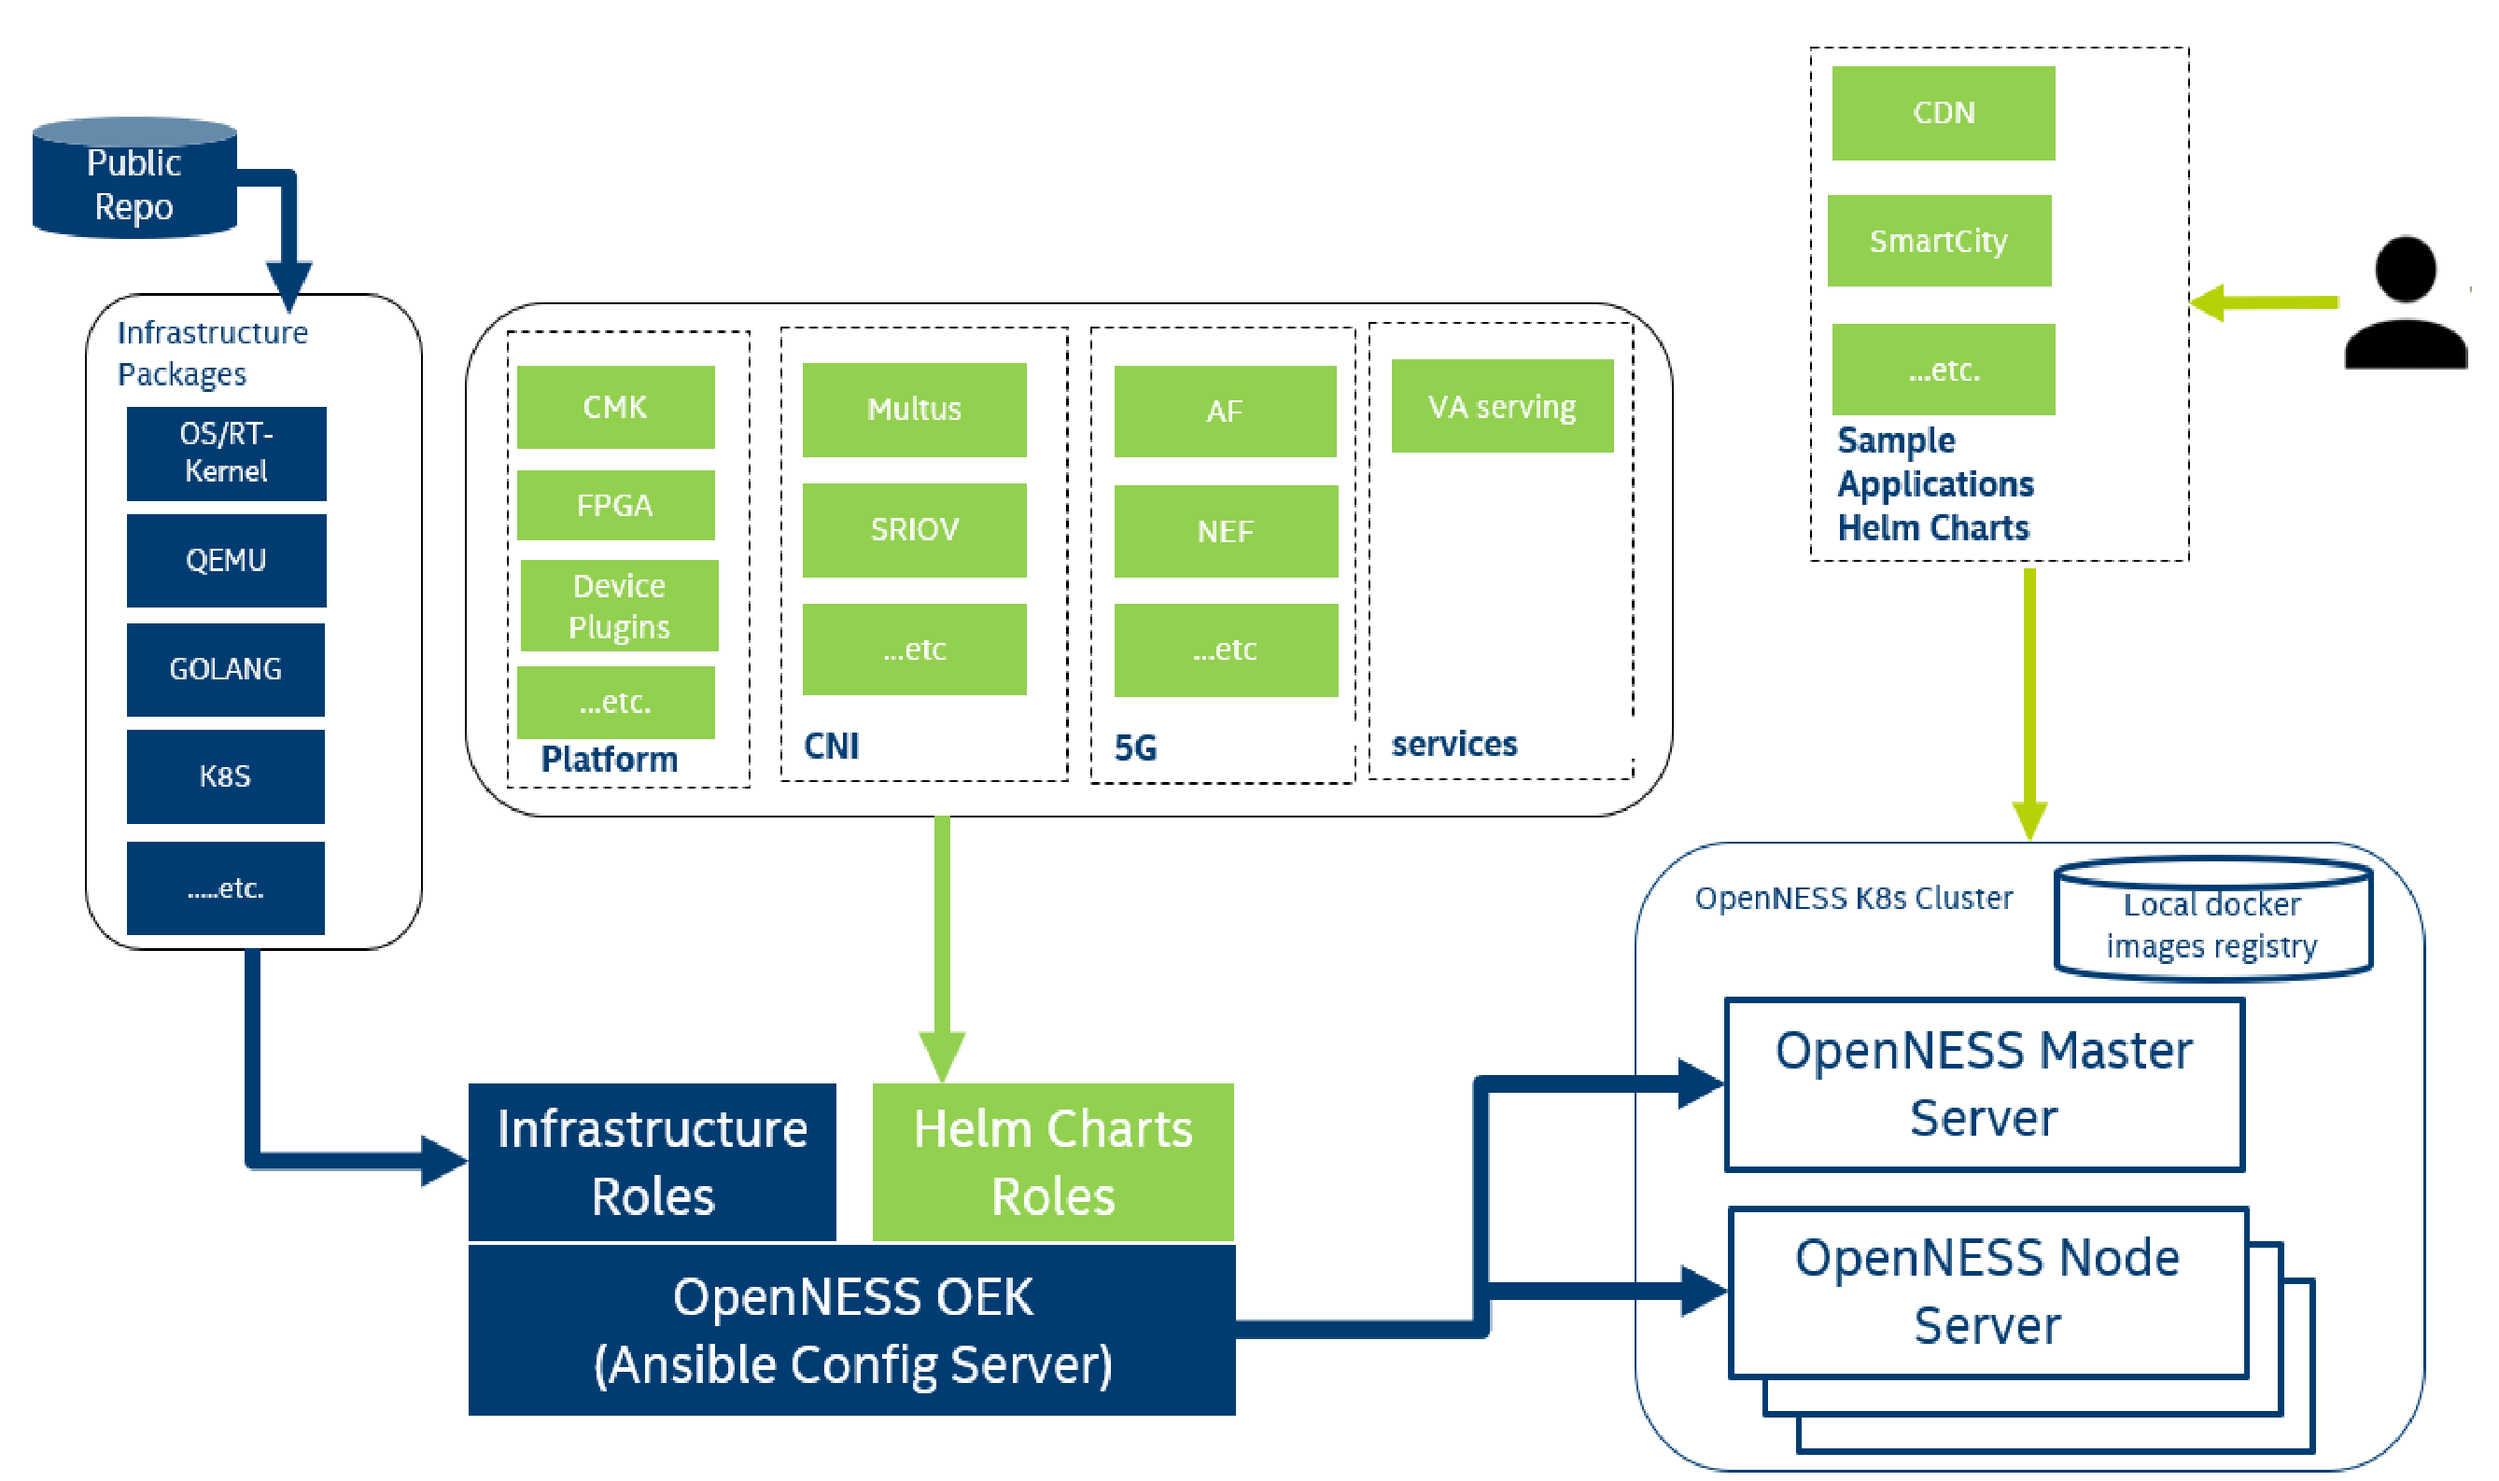
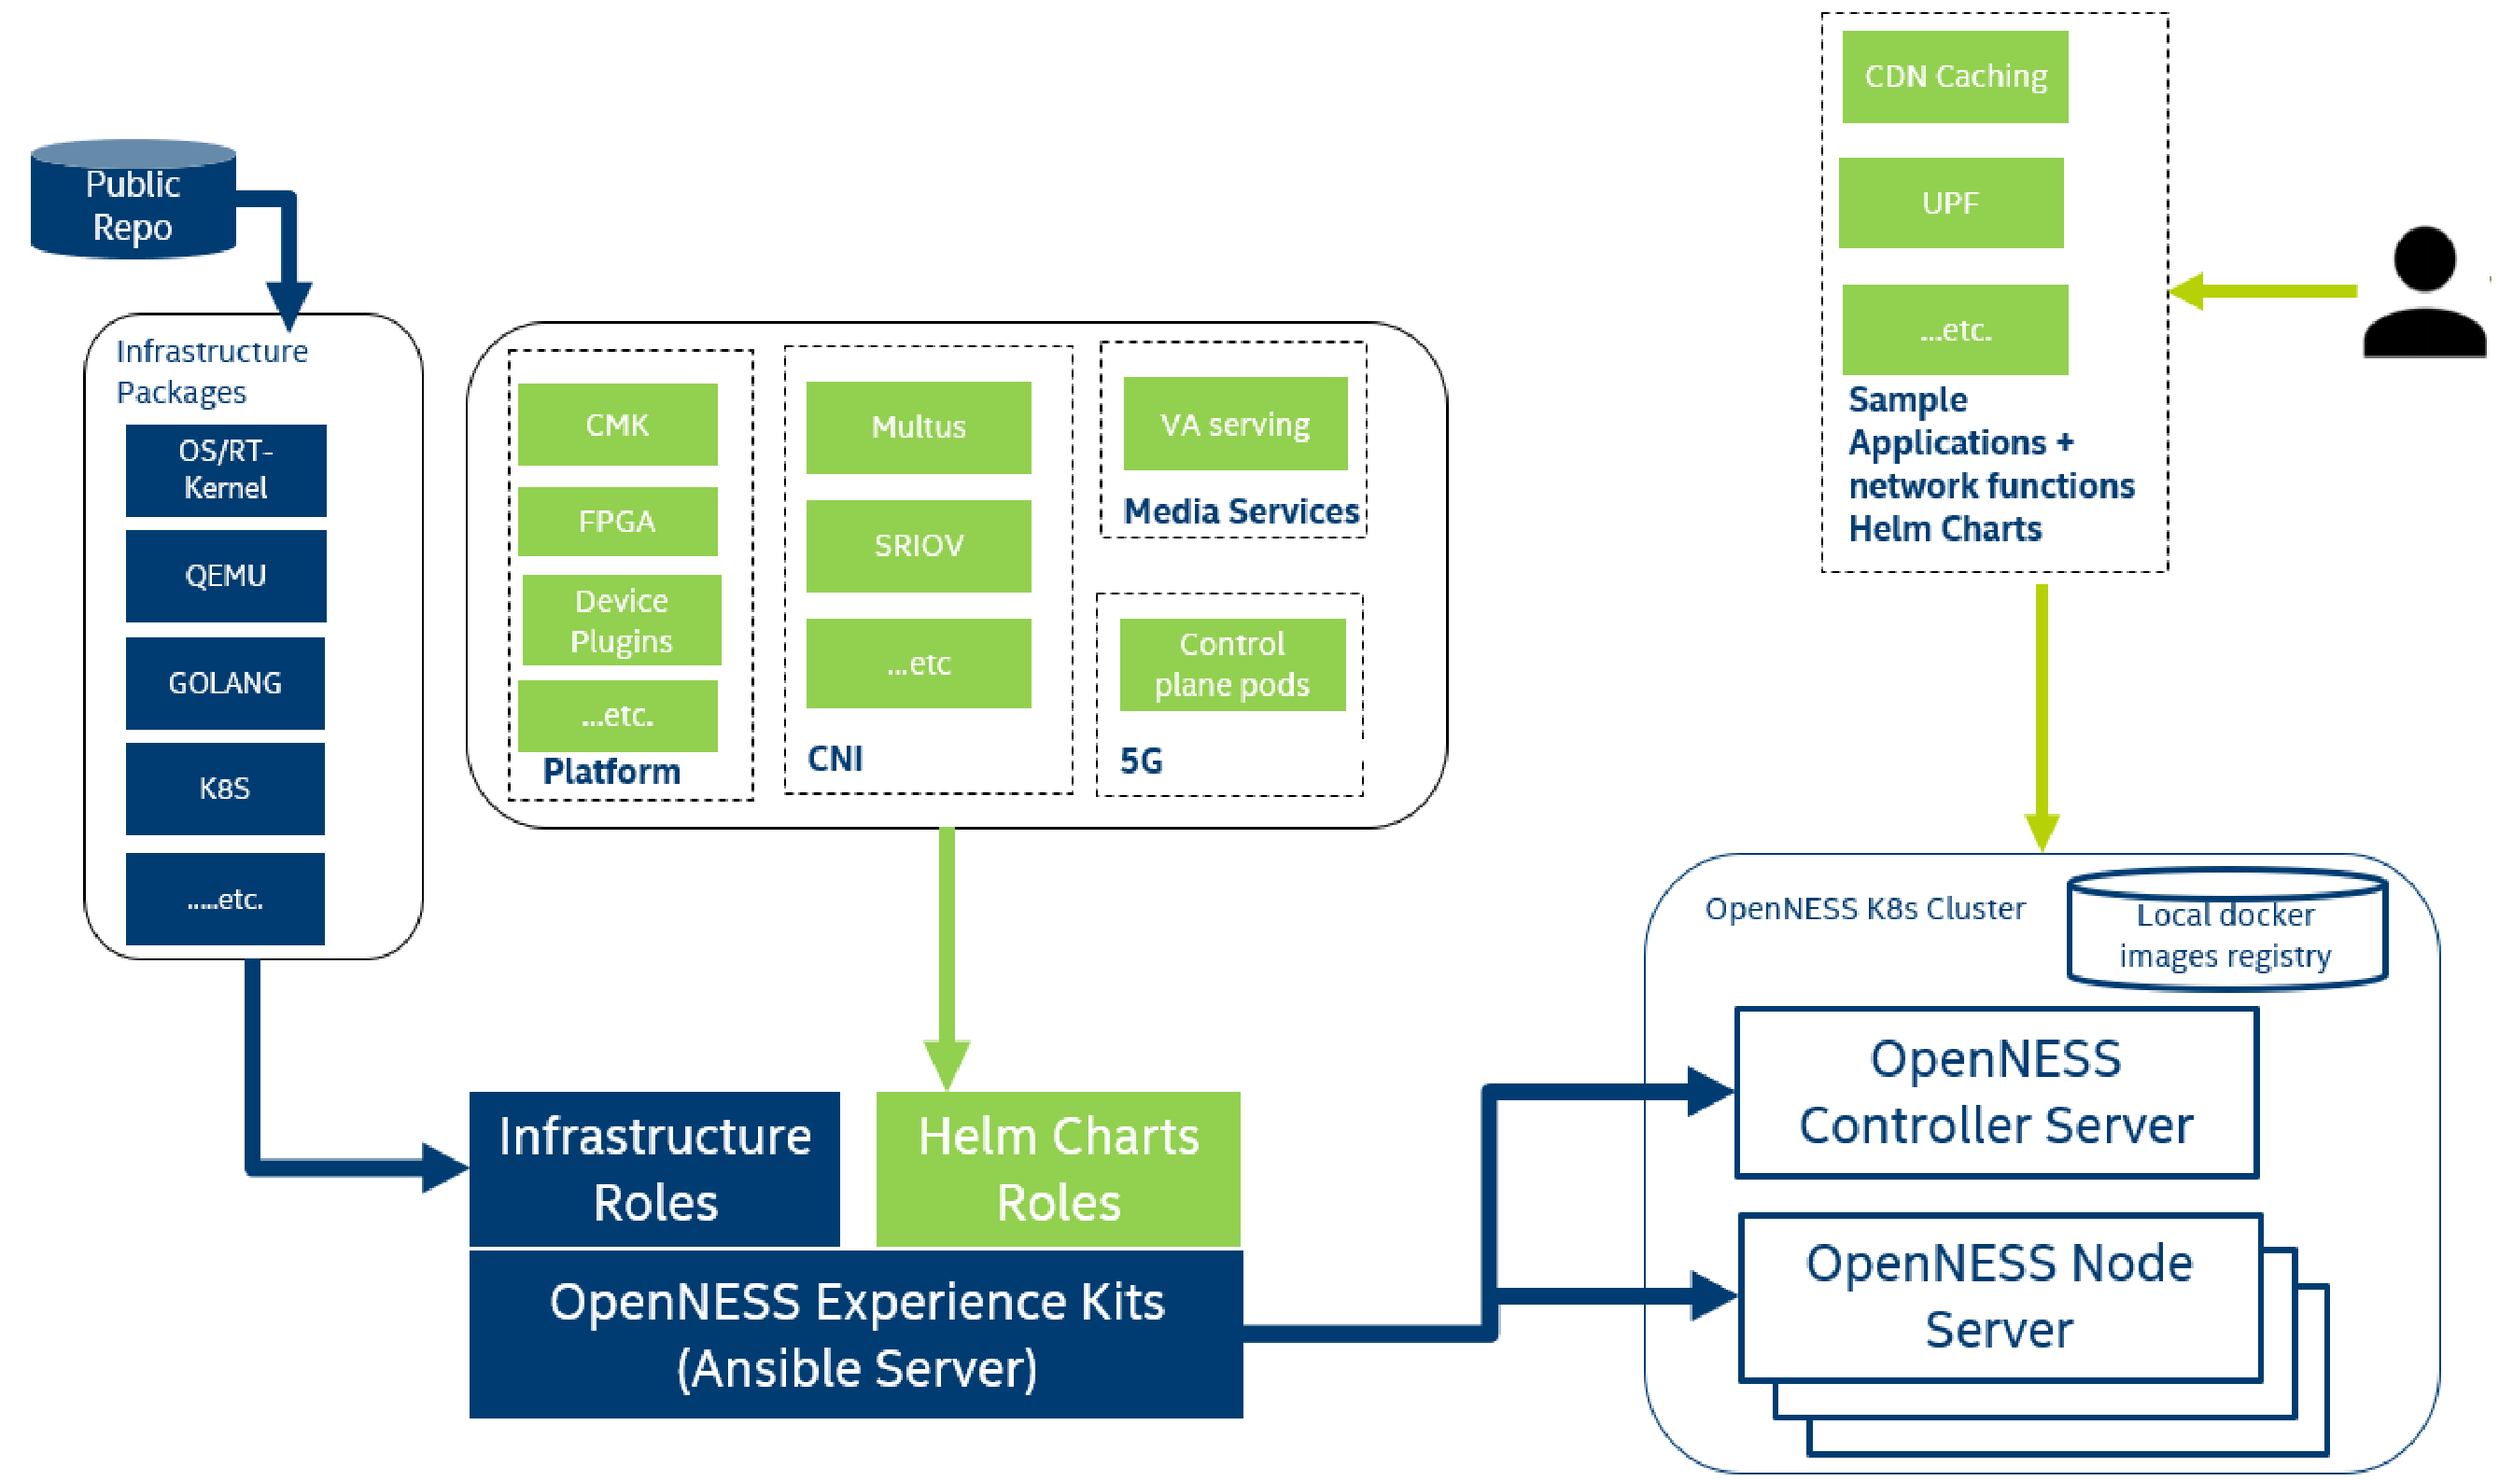
address reveiw comments from amr,chris and sudir

diff --git a/doc/cicd/openness-helm.md b/doc/cicd/openness-helm.md
@@ -10,13 +10,13 @@ Copyright (c) 2020 Intel Corporation
 - [References](#references)
 
 # Introduction
-Helm is a package manager for Kubernetes. It allows developers and operators easily to package, configure, and deploy applications and services onto the Kubernetes clusters (More details refer to [Helm Website]). OpenNESS Helm extends the OpenNESS OEK Ansible playbooks to the deployment of kuberenets packages, and provides a path for customer to upgrade without re-install.  The aim of this document is to familiarize the user with the OpenNESS Helm for the Network Edge. This guide will provide instructions on how to use openness helm. 
+Helm is a package manager for Kubernetes. It allows developers and operators to easily package, configure, and deploy applications and services onto the Kubernetes clusters (More details refer to [Helm Website](https://helm.sh)). OpenNESS Helm extends the [OpenNESS Experience Kits](https://github.com/otcshare/openness-experience-kits) Ansible playbooks to the deployment of kuberenets packages, and provides a path for customer to upgrade without re-install.  The aim of this document is to familiarize the user with the OpenNESS Helm for the Network Edge. This guide will provide instructions on how to use Helm with OpenNESS. 
 
 # Architecture
 The below figure shows the architecture for the OpenNESS Helm in this document.
 ![OpenNESS Helm](openness-helm-images/openness-helm-arch.png)
 
-_Figure - OpenNESS Helm Arch_
+_Figure - Helm Architecture in OpenNESS_
 
 
 # Helm Installation
@@ -31,16 +31,15 @@ To check whether helm is installed successfully, on the master run:
    ```
 # Helm Charts   
 OpenNESS provides helm charts: 
-EPA, Telemetry and k8s plugins: 
-- CMK, NFD, FPGA Config, SRIOV, VPU and GPU Device Plugins
-- Prometheus, NodeExporter, Cadvisor, Collectd, Opentelemetry, PCM and Grafana.
-- CNI plugins including Multus and SRIOV CNI.
-5G control plane pods including AF, NEF, OAM and CNTF.
-video analytics service. 
-> **Note:**  NFD, CMK, Prometheus, NodeExporter and Grafana leverage existing third-party helm charts. 
-> Refer to [Container Experience Kits](https://github.com/intel/container-experience-kits) and [Helm Github Repo](https://github.com/helm/charts)
+- EPA, Telemetry and k8s plugins: 
+  - CMK, NFD, FPGA Config, SRIOV, VPU and GPU Device Plugins
+  - Prometheus, NodeExporter, Cadvisor, Collectd, Opentelemetry, PCM and Grafana.
+  - CNI plugins including Multus and SRIOV CNI.
+  - video analytics service. 
+  - 5G control plane pods. (For 5G helm chart list, more details in OpenNESS Enhanced Repo) 
+> **Note:**  NFD, CMK, Prometheus, NodeExporter and Grafana leverage existing third-party helm charts: [Container Experience Kits](https://github.com/intel/container-experience-kits) and [Helm Github Repo](https://github.com/helm/charts)
 
-For the platform related helm charts, OpenNESS OEK ansible playbooks perform automatic charts generation and deploy the platform pods via the charts. All the helm chart files will be saved in the specific directly on the master. The modify directory, can change variable `ne_helm_charts_default_dir` in `group_vars/all/10-default.yml` file:
+For the platform related helm charts, [OpenNESS Experience Kits](https://github.com/otcshare/openness-experience-kits) ansible playbooks perform automatic charts generation and deploy the platform pods via the charts. All the helm chart files will be saved in the specific directly on OpenNESS controller. To modify the directory, change variable `ne_helm_charts_default_dir` in `group_vars/all/10-default.yml` file:
    ```yaml
    ne_helm_charts_default_dir: /opt/openness-helm-charts/
    ```
@@ -61,13 +60,17 @@ To check helm releases, run:
    ```
 > **Note:**  Different OpenNESS flavors contain different platform features. So above is just an example for the helm charts.
 
-Besides that, OpenNESS also provides helm charts for sample applications and services that can be deployed on the OpenNESS platform as below:
-- CDN sample applications including CDN caching and CDN transcode
-- Smart city application
-- Telemetry sample application
-- EIS sample application
-
-The usage of invididual helm chart can refer to [OpenNESS specs repos](https://github.com/otcshare/specs). 
+- Sample applications, network functions and services that can be deployed and verified on the OpenNESS platform:
+  - Applications
+    - [CDN Caching Application Helm Charts](https://github.com/otcshare/edgeapps/tree/master/applications/cdn-caching)
+    - CDN-Transcode Application Helm Charts.(Leverage OpenVisualCloud [CDN-Transcode-Sample Helm Charts](https://github.com/OpenVisualCloud/CDN-Transcode-Sample/tree/master/deployment/kubernetes/helm))
+    - Smart-City Application Helm Charts. (Leverage OpenVisualCloud [SmartCity Helm Charts](https://github.com/OpenVisualCloud/Smart-City-Sample/tree/master/deployment/kubernetes/helm))
+    - [Telemetry Sample Application Helm Charts](https://github.com/otcshare/edgeapps/tree/master/applications/telemetry-sample-app)
+    - [EIS Sample Application Helm Charts](https://github.com/otcshare/edgeapps/tree/master/applications/eis-experience-kit)
+  - Network Functions
+    - [FlexRAN Helm Charts](https://github.com/otcshare/edgeapps/tree/master/network-functions/ran/charts/flexran)
+    - [xRAN Helm Charts](https://github.com/otcshare/edgeapps/tree/master/network-functions/xran/helmcharts/xranchart)
+    - [UPF Helm Charts](https://github.com/otcshare/edgeapps/tree/master/network-functions/core-network/charts/upf)
 
 # References
 - [Helm Website](https://helm.sh)
